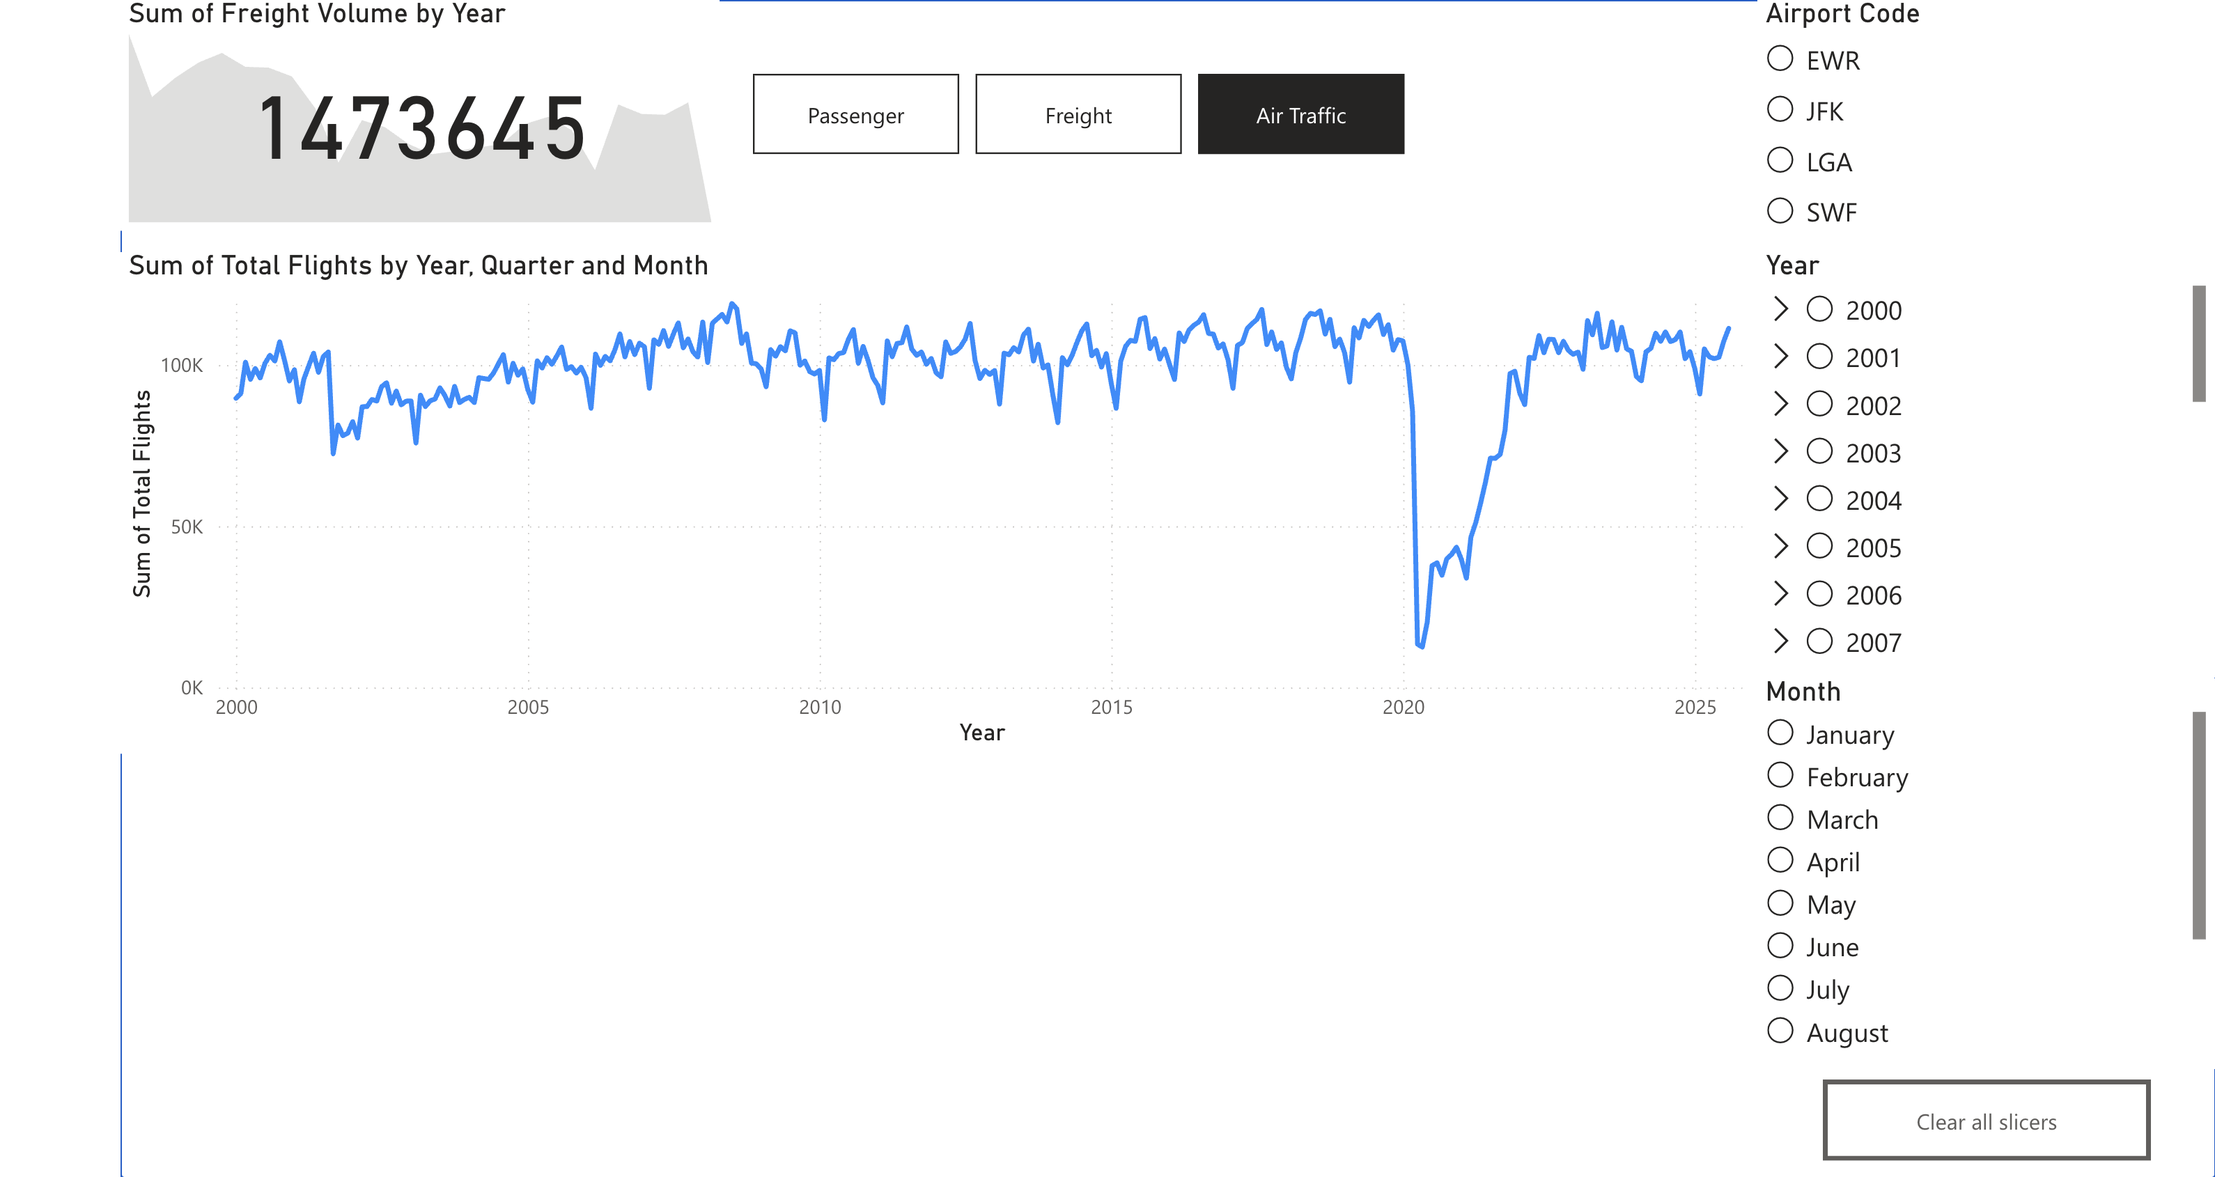
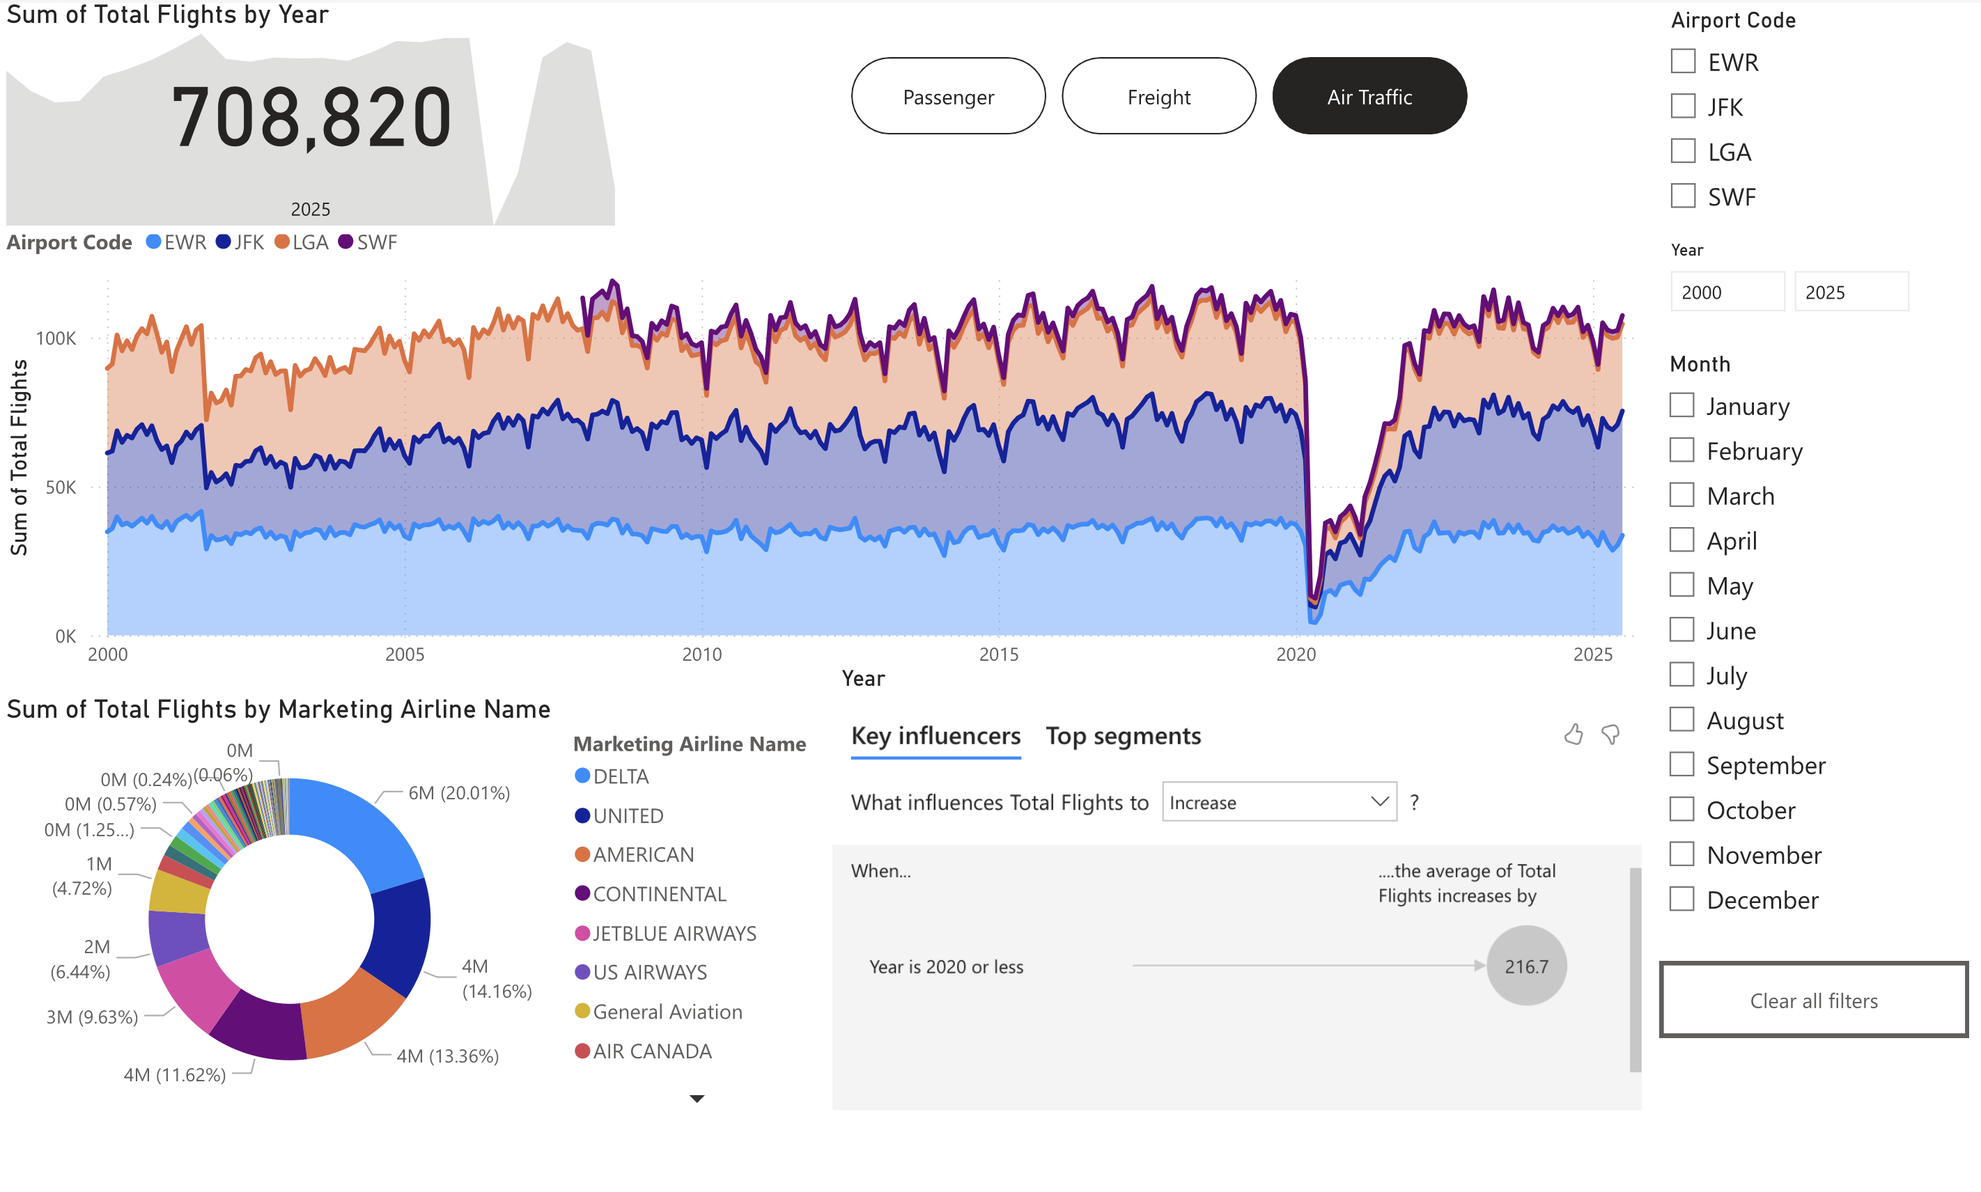
made changes to the power bi report

diff --git a/src/components/project-list/nyc-airport-powerbi/index.tsx b/src/components/project-list/nyc-airport-powerbi/index.tsx
@@ -4,6 +4,7 @@ import { Code } from 'lucide-react';
 import { Button } from '@/components/ui/button';
 import ProjectHeader from '@/common/ProjectHeader';
 import Link from 'next/link';
+import Image from 'next/image';
 
 function NycAirportPowerBi() {
   const stacks = ['PowerBi', 'Data Visualization', 'Data Analysis'];
@@ -22,50 +23,277 @@ function NycAirportPowerBi() {
         <Link
           target="_blank"
           className="text-blue-600 underline hover:text-blue-700"
-          href="https://studentuncc-my.sharepoint.com/my?id=%2Fpersonal%2Faarun3%5Fcharlotte%5Fedu%2FDocuments%2Fflight%5Fdata%2Epbix&parent=%2Fpersonal%2Faarun3%5Fcharlotte%5Fedu%2FDocuments&ga=1"
+          href="https://app.powerbi.com/links/3-Mw-mh2qK?ctid=88d59d7d-aecb-41b2-90c5-55595de02536&pbi_source=linkShare&bookmarkGuid=08a0b169-c2fb-487f-9884-6c472e879efc"
         >
           Link to PowerBi Report
         </Link>
-        <p className="text-2xl font-semibold mt-8">Audience & context:</p>
-        <p>
-          This report is intended for stakeholders in the aviation industry, including airport
-          authorities, airline companies, and policymakers. The insights derived from the data can
-          inform decisions related to airport operations, resource allocation, and strategic
-          planning. Understanding trends in passenger and freight volumes can help optimize services
-          and improve overall efficiency in response to market demands and external factors such as
-          economic conditions and global events.
+
+        <p className="text-2xl font-semibold mt-8">Audience & Intent</p>
+        <p className="mb-4">
+          This PowerBI dashboard is designed for <strong>aviation industry stakeholders</strong>,
+          including airport authorities, airline executives, urban planners, and policymakers in the
+          New York metropolitan area. The primary intent is to enable{' '}
+          <strong>data-driven decision-making</strong> by revealing long-term trends, seasonal
+          patterns, and the impact of external shocks (particularly COVID-19 and the 2008 financial
+          crisis) on NYC&apos;s airport ecosystem.
         </p>
-        <p className="text-2xl font-semibold mt-8">KPIs chosen:</p>
-        <ul className="list-disc list-inside">
-          <li>Passenger Volume</li>
-          <li>Freight Volume</li>
-          <li>Air Traffic Movements</li>
+        <p className="font-semibold mt-4">What I want them to learn:</p>
+        <ul className="list-disc list-inside ml-4 mb-4">
+          <li>
+            How different airports serve different roles (JFK as the primary international hub, EWR
+            as a balanced passenger/freight airport, LGA for domestic traffic, and SWF as a smaller
+            regional airport)
+          </li>
+          <li>The profound impact of COVID-19 on aviation and the ongoing recovery trajectory</li>
+          <li>Seasonal patterns that can inform resource allocation and staffing decisions</li>
         </ul>
-        <p className="text-2xl font-semibold mt-8">Dashboard structure:</p>
-        <ul className="list-disc list-inside">
-          <li>Overview of total passenger and freight volumes by airport</li>
-          <li>Monthly trends and seasonal patterns for each KPI</li>
-          <li>Impact analysis of significant events (e.g., COVID-19 pandemic)</li>
-          <li>Comparative analysis between airports</li>
+        <p className="font-semibold mt-4">What I want them to feel:</p>
+        <ul className="list-disc list-inside ml-4 mb-4">
+          <li>Confidence in making strategic decisions backed by historical data</li>
+          <li>
+            Awareness of the interconnectedness between passenger, freight, and air traffic metrics
+          </li>
         </ul>
-        <p className="text-2xl font-semibold mt-8">Design Choices:</p>
-        <p>
-          The design of the dashboard prioritizes clarity and ease of use, with a clean layout and
-          intuitive navigation. Visualizations are used to highlight key trends and insights, making
-          it easy for users to grasp complex data at a glance. The color scheme is chosen to be
-          visually appealing while maintaining accessibility standards.
+        <p className="font-semibold mt-4">What I want them to do:</p>
+        <ul className="list-disc list-inside ml-4 mb-4">
+          <li>Use these insights to optimize operations during peak seasons</li>
+          <li>Plan for resilience against future disruptions</li>
+          <li>Allocate resources more effectively across the four airports</li>
+        </ul>
+
+        <p className="text-2xl font-semibold mt-8">Story & Structure</p>
+        <p className="font-semibold mt-4">The Narrative Arc:</p>
+        <p className="mb-4">
+          The dashboard tells a story of <strong>resilience, disruption, and recovery</strong> in
+          NYC&apos;s aviation landscape over 24 years (2000-2024). The narrative unfolds in three
+          interconnected chapters:
         </p>
-        <p className="text-2xl font-semibold mt-8">Reflection:</p>
-        <p>
-          This project provided valuable experience in data analysis and visualization using
-          PowerBi. It highlighted the importance of understanding the context behind the data and
-          the need to tailor visualizations to the target audience. The insights gained from this
-          analysis can contribute to more informed decision-making in the aviation sector.
+        <ul className="list-decimal list-inside ml-4 mb-4">
+          <li>
+            <strong>Chapter 1 - Passenger Volume:</strong> Sets the stage by showing the dominance
+            of JFK, clear seasonal rhythms, and the devastating impact of COVID-19 on human mobility
+          </li>
+          <li>
+            <strong>Chapter 2 - Freight Volume:</strong> Reveals a different story—cargo proved more
+            resilient to COVID-19 but was vulnerable to the 2008 economic crisis, highlighting how
+            economic factors affect logistics differently than leisure travel
+          </li>
+          <li>
+            <strong>Chapter 3 - Air Traffic Movements:</strong> Brings the story together by showing
+            overall airport activity, confirming patterns seen in passenger data and reinforcing JFK
+            and EWR&apos;s critical infrastructure roles
+          </li>
+        </ul>
+        <p className="font-semibold mt-4">Visual Organization:</p>
+        <p className="mb-4">
+          Each visualization is placed sequentially with contextual narrative between them, guiding
+          the viewer through the data story. The structure follows a{' '}
+          <strong>comparative-temporal pattern</strong>:
         </p>
-        <p>
-          This report analyzes the trends in monthly revenue passenger volume and monthly freight
-          volume at New York&apos;s major airports (EWR, JFK, LGA, and SWF) from 2000 to 2024, based
-          on the provided visualizations.
+        <ul className="list-disc list-inside ml-4 mb-4">
+          <li>All three charts use the same time period (2000-2024) for consistency</li>
+          <li>Color-coded by airport for easy cross-comparison</li>
+          <li>Monthly granularity reveals both long-term trends and seasonal variations</li>
+          <li>The placement creates a natural flow: people → goods → overall activity</li>
+        </ul>
+        <p className="mb-4">
+          This organization supports the narrative by allowing readers to see how different metrics
+          responded differently to the same external events, particularly highlighting the unique
+          nature of each crisis.
+        </p>
+
+        <p className="text-2xl font-semibold mt-8">Design Choices</p>
+        <p className="font-semibold mt-4">Color Strategy:</p>
+        <ul className="list-disc list-inside ml-4 mb-4">
+          <li>
+            <strong>Airport-specific color coding</strong> ensures visual consistency across all
+            three dashboards. Each airport maintains the same color throughout, enabling instant
+            recognition and comparison
+          </li>
+          <li>
+            Colors chosen for <strong>sufficient contrast</strong> to distinguish between airports
+            while maintaining readability
+          </li>
+          <li>
+            The palette is designed for <strong>accessibility</strong>, avoiding reliance solely on
+            color to communicate information
+          </li>
+        </ul>
+        <p className="font-semibold mt-4">Layout & Composition:</p>
+        <ul className="list-disc list-inside ml-4 mb-4">
+          <li>
+            <strong>Consistent chart sizing</strong> creates visual harmony and makes
+            cross-comparison intuitive
+          </li>
+          <li>
+            <strong>Time-series line charts</strong> were the optimal choice for showing trends over
+            24 years—they clearly reveal patterns, anomalies, and inflection points
+          </li>
+          <li>
+            <strong>White space and margins</strong> prevent visual clutter, allowing each chart to
+            breathe
+          </li>
+          <li>Strategic placement of legends ensures they don&apos;t obscure data</li>
+        </ul>
+        <p className="font-semibold mt-4">Typography & Hierarchy:</p>
+        <ul className="list-disc list-inside ml-4 mb-4">
+          <li>
+            Section headings in <strong>2xl font size</strong> create clear visual breaks between
+            narrative sections
+          </li>
+          <li>
+            Descriptive paragraph text provides context without overwhelming the visualizations
+          </li>
+          <li>The hierarchy guides the eye: Title → Context → Visualization → Interpretation</li>
+        </ul>
+        <p className="font-semibold mt-4">Clutter Reduction:</p>
+        <ul className="list-disc list-inside ml-4 mb-4">
+          <li>
+            <strong>Minimal grid lines</strong> keep focus on the data trends rather than the
+            scaffolding
+          </li>
+          <li>No unnecessary decorative elements—every visual component serves a purpose</li>
+          <li>
+            The dashboard avoids &quot;chart junk&quot; by eliminating 3D effects, excessive
+            borders, or ornamental graphics
+          </li>
+        </ul>
+        <p className="font-semibold mt-4">Perception & Design Principles Applied:</p>
+        <ol className="list-decimal list-inside ml-4 mb-4">
+          <li>
+            <strong>Gestalt Principles:</strong>
+            <ul className="list-disc list-inside ml-8 mt-2">
+              <li>
+                <strong>Similarity:</strong> Same-colored lines represent the same airport across
+                all charts
+              </li>
+              <li>
+                <strong>Continuity:</strong> Line charts naturally guide the eye through time
+                progression
+              </li>
+              <li>
+                <strong>Proximity:</strong> Grouping related text with corresponding visualizations
+              </li>
+            </ul>
+          </li>
+          <li className="mt-2">
+            <strong>Pre-attentive Processing:</strong>
+            <ul className="list-disc list-inside ml-8 mt-2">
+              <li>
+                Color differences allow viewers to instantly distinguish airports without conscious
+                effort
+              </li>
+              <li>
+                The dramatic COVID-19 drop is immediately visible due to the sharp slope change
+              </li>
+            </ul>
+          </li>
+          <li className="mt-2">
+            <strong>Data-Ink Ratio (Tufte&apos;s Principle):</strong>
+            <ul className="list-disc list-inside ml-8 mt-2">
+              <li>
+                Maximizing the proportion of ink dedicated to displaying data versus decoration
+              </li>
+              <li>Every line, label, and axis serves a functional purpose</li>
+            </ul>
+          </li>
+          <li className="mt-2">
+            <strong>Progressive Disclosure:</strong>
+            <ul className="list-disc list-inside ml-8 mt-2">
+              <li>
+                Overview metrics first (total volumes), then drill into patterns and insights
+                through the narrative
+              </li>
+            </ul>
+          </li>
+        </ol>
+
+        <p className="text-2xl font-semibold mt-8">Reflection</p>
+        <p className="font-semibold mt-4">What Worked Well:</p>
+        <ul className="list-disc list-inside ml-4 mb-4">
+          <li>
+            <strong>The temporal comparison</strong> across 24 years effectively revealed both
+            cyclical patterns and one-time shock events
+          </li>
+          <li>
+            <strong>The three-metric approach</strong> (passenger, freight, air traffic) provided a
+            holistic view of airport operations—showing that while passenger travel collapsed during
+            COVID-19, freight remained more stable
+          </li>
+          <li>
+            <strong>Color consistency</strong> across visualizations made it effortless to track
+            individual airports through the story
+          </li>
+          <li>
+            <strong>The narrative integration</strong> with visualizations created a compelling
+            story rather than just presenting charts in isolation
+          </li>
+          <li>
+            <strong>Seasonal patterns</strong> are immediately visible, which is valuable for
+            operational planning
+          </li>
+        </ul>
+        <p className="font-semibold mt-4">What Challenged Me:</p>
+        <ul className="list-disc list-inside ml-4 mb-4">
+          <li>
+            <strong>Balancing detail with clarity:</strong> With 24 years of monthly data across 4
+            airports, there was a risk of overwhelming viewers. Finding the right level of
+            granularity without losing important patterns required careful consideration
+          </li>
+          <li>
+            <strong>Distinguishing between correlation and causation:</strong> While the 2008
+            freight dip and COVID-19 passenger drop are visible, communicating that these are
+            correlations requiring further analysis (not definitive causal claims) was important
+          </li>
+          <li>
+            <strong>Accessibility considerations:</strong> Ensuring color-blind users could still
+            interpret the data may have required additional design iterations
+          </li>
+          <li>
+            <strong>Data normalization:</strong> The vastly different scales between SWF and the
+            major airports (JFK, EWR, LGA) could make SWF&apos;s trends less visible—deciding
+            whether to use normalized or absolute values presented trade-offs
+          </li>
+        </ul>
+        <p className="font-semibold mt-4">What I Would Refine Further:</p>
+        <ol className="list-decimal list-inside ml-4 mb-4">
+          <li>
+            <strong>Interactive filters:</strong> Add the ability to toggle airports on/off, zoom
+            into specific time periods, or highlight specific events (9/11, 2008 crisis, COVID-19)
+            with annotations
+          </li>
+          <li>
+            <strong>Year-over-year comparison views:</strong> Create small multiples showing each
+            year as a separate line to make seasonal patterns even more apparent
+          </li>
+          <li>
+            <strong>Recovery metrics:</strong> Add KPIs showing percentage recovery to pre-pandemic
+            levels for each airport
+          </li>
+          <li>
+            <strong>Economic indicators overlay:</strong> Include GDP, oil prices, or tourism data
+            as background context to strengthen the causation narrative
+          </li>
+          <li>
+            <strong>Predictive elements:</strong> Incorporate forecasting to project future trends
+            based on historical patterns
+          </li>
+          <li>
+            <strong>Mobile responsiveness:</strong> Optimize the dashboard layout for viewing on
+            tablets and phones, as stakeholders may need access on-the-go
+          </li>
+          <li>
+            <strong>Annotations for key events:</strong> Visual markers on the timeline highlighting
+            major events (9/11, economic crisis, pandemic start, vaccine rollout) would strengthen
+            the storytelling
+          </li>
+        </ol>
+
+        <p className="text-2xl font-semibold mt-8">Visual Analysis</p>
+        <p className="mb-4">
+          This report analyzes the trends in monthly revenue passenger volume, monthly freight
+          volume, and air traffic movements at New York&apos;s major airports (EWR, JFK, LGA, and
+          SWF) from 2000 to 2024, based on the visualizations below.
         </p>
         <p className="text-2xl font-semibold mt-8">Revenue Passenger Volume:</p>
         <p>
@@ -81,10 +309,12 @@ function NycAirportPowerBi() {
           of the COVID-19 pandemic. Passenger volumes have since been recovering, but the recovery
           rate and current levels vary by airport.
         </p>
-        <img
+        <Image
           src="/projects/nyc-airport-powerbi/passenger.png"
           alt="NYC Airport Passenger Traffic"
           className="my-4 w-full object-contain"
+          width={1200}
+          height={600}
         />
         <p className="text-2xl font-semibold mt-8">Freight Volume:</p>
         <p>
@@ -102,10 +332,12 @@ function NycAirportPowerBi() {
           This highlights the differing nature of air travel for passengers versus cargo and how
           economic factors can influence freight.
         </p>
-        <img
+        <Image
           src="/projects/nyc-airport-powerbi/freight.png"
           alt="NYC Airport Freight Traffic"
           className="my-4 w-full object-contain"
+          width={1200}
+          height={600}
         />
         <p className="text-2xl font-semibold mt-8">Air Traffic Movements:</p>
         <p>
@@ -118,15 +350,17 @@ function NycAirportPowerBi() {
           in early 2020 due to the COVID-19 pandemic. The recovery trend is also visible, but the
           levels have not yet returned to pre-pandemic figures.
         </p>
-        <img
+        <Image
           src="/projects/nyc-airport-powerbi/air-traffic.png"
           alt="NYC Airport Air Traffic Movements"
           className="my-4 w-full object-contain"
+          width={1200}
+          height={600}
         />
         <div className="flex gap-x-2 my-6">
           <Button variant="outline" asChild>
             <a
-              href="https://studentuncc-my.sharepoint.com/my?id=%2Fpersonal%2Faarun3%5Fcharlotte%5Fedu%2FDocuments%2Fflight%5Fdata%2Epbix&parent=%2Fpersonal%2Faarun3%5Fcharlotte%5Fedu%2FDocuments&ga=1"
+              href="https://app.powerbi.com/links/3-Mw-mh2qK?ctid=88d59d7d-aecb-41b2-90c5-55595de02536&pbi_source=linkShare&bookmarkGuid=08a0b169-c2fb-487f-9884-6c472e879efc"
               target="_blank"
               rel="noopener noreferrer"
             >
